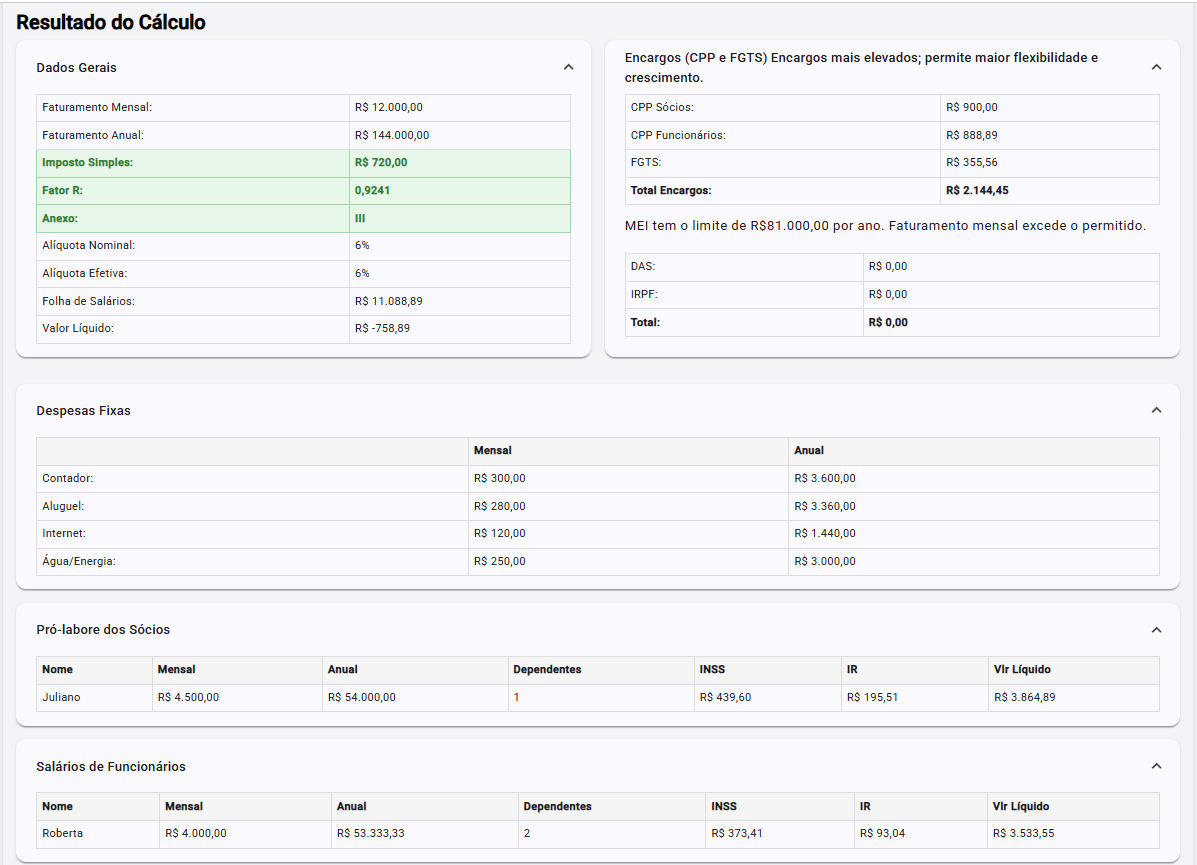
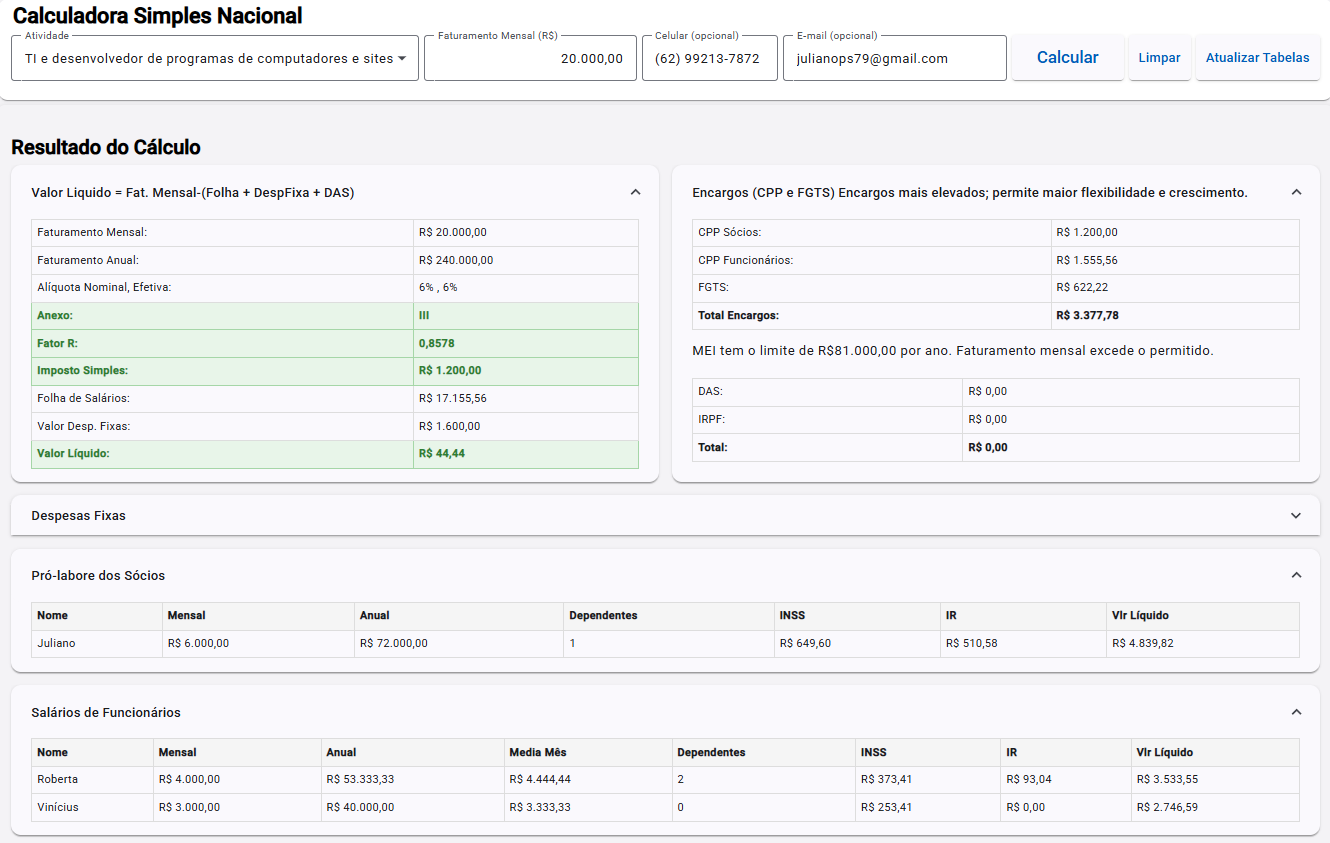
Ajustes de layout, destaque do valor líquido e melhorias visuais

diff --git a/src/app/components/resultado/resultado.component.html b/src/app/components/resultado/resultado.component.html
@@ -8,27 +8,32 @@
       <!-- Dados Gerais -->
       <mat-expansion-panel style="flex: 1; min-width: 350px;" [expanded]="resultado.faturamentoMensal > 0">
         <mat-expansion-panel-header>
-          <mat-panel-title> Dados Gerais </mat-panel-title>
+          <mat-panel-title> Valor Liquido = Fat. Mensal-(Folha + DespFixa + DAS) </mat-panel-title>
         </mat-expansion-panel-header>
 
         <table class="tabela-compacta">
           <tr><td>Faturamento Mensal:</td><td>R$ {{ resultado.faturamentoMensal | number: '1.2-2' }}</td></tr>
           <tr><td>Faturamento Anual:</td><td>R$ {{ resultado.faturamentoAnual | number: '1.2-2' }}</td></tr>
+          <tr><td>Alíquota Nominal, Efetiva:</td><td>{{ resultado.aliquotaNominal }}% , {{ resultado.aliquotaEfetiva }}%</td></tr>
           <tr [ngClass]="{ 'linha-verde': resultado.anexo === 'III', 'linha-azul': resultado.anexo === 'V' }">
-            <td>Imposto Simples:</td>
-            <td>R$ {{ resultado.das | number: '1.2-2' }}</td>
+            <td>Anexo:</td><td>{{ resultado.anexo }}</td>
           </tr>
           <tr [ngClass]="{ 'linha-verde': resultado.anexo === 'III', 'linha-azul': resultado.anexo === 'V' }">
             <td>Fator R:</td>
             <td>{{ resultado.fatorR | number: '1.4-4' }}</td>
           </tr>
           <tr [ngClass]="{ 'linha-verde': resultado.anexo === 'III', 'linha-azul': resultado.anexo === 'V' }">
-            <td>Anexo:</td><td>{{ resultado.anexo }}</td>
+            <td>Imposto Simples:</td>
+            <td>R$ {{ resultado.das | number: '1.2-2' }}</td>
           </tr>
-          <tr><td>Alíquota Nominal:</td><td>{{ resultado.aliquotaNominal }}%</td></tr>
-          <tr><td>Alíquota Efetiva:</td><td>{{ resultado.aliquotaEfetiva }}%</td></tr>
           <tr><td>Folha de Salários:</td><td>R$ {{ resultado.folhaSalarios | number: '1.2-2' }}</td></tr>
-          <tr><td>Valor Líquido:</td><td>R$ {{ resultado.valorLiquidoMensal | number: '1.2-2' }}</td></tr>
+          <tr><td>Valor Desp. Fixas:</td><td>R$ {{ resultado.vlrDespFixas | number: '1.2-2' }}</td></tr>
+          <tr [ngClass]="resultado.valorLiquidoMensal < 0 ? 'valor-negativo' : 'valor-positivo'">
+            <td>Valor Líquido:</td>
+            <td >
+              R$ {{ resultado.valorLiquidoMensal | number: '1.2-2' }}
+            </td>
+          </tr>
         </table>
       </mat-expansion-panel>
 
@@ -120,6 +125,7 @@
               <th>Nome</th>
               <th>Mensal</th>
               <th>Anual</th>
+              <th>Media Mês</th>
               <th>Dependentes</th>
               <th>INSS</th>
               <th>IR</th>
@@ -131,6 +137,7 @@
               <td>{{ func.nome }}</td>
               <td>R$ {{ func.valorSalario | number: '1.2-2' }}</td>
               <td>R$ {{ func.valorSalarioAnual | number: '1.2-2' }}</td>
+              <td>R$ {{ func.mediaMensal | number: '1.2-2' }}</td>
               <td>{{ func.numeroDependentes }}</td>
               <td>R$ {{ func.valorINSS | number: '1.2-2' }}</td>
               <td>R$ {{ func.valorIR | number: '1.2-2' }}</td>

diff --git a/src/app/pages/calculadora/calculadora.component.html b/src/app/pages/calculadora/calculadora.component.html
@@ -5,25 +5,23 @@
     </mat-card-header>
     <mat-card-content>
       <div class="input-botoes">
-        <mat-form-field appearance="outline" class="input-faturamento">
+        <!-- Atividade - mais larga -->
+        <mat-form-field appearance="outline" class="campo-atividade">
           <mat-label>Atividade</mat-label>
           <mat-select [(ngModel)]="atividadeSelecionada">
-            <mat-option *ngFor="let a of listaAtividades" [value]="a">
-              {{ a }}
-            </mat-option>
+            <mat-option *ngFor="let a of listaAtividades" [value]="a">{{ a }}</mat-option>
           </mat-select>
         </mat-form-field>
-        <mat-form-field appearance="outline" class="input-faturamento">
+
+        <!-- Faturamento - menor -->
+        <mat-form-field appearance="outline" class="campo-faturamento">
           <mat-label>Faturamento Mensal (R$)</mat-label>
-          <input
-            matInput
-            type="text"
-            currencyMask
-            [(ngModel)]="faturamentoMensal"
-          >
+          <input matInput type="text" currencyMask [(ngModel)]="faturamentoMensal" />
         </mat-form-field>
+        
         <div class="input-contato">
-          <mat-form-field appearance="outline" class="input-faturamento">
+          <!-- Celular - menor -->
+          <mat-form-field appearance="outline" class="campo-celular">
             <mat-label>Celular (opcional)</mat-label>
             <input
               matInput
@@ -31,12 +29,12 @@
               mask="(00) 00000-0000"
               [dropSpecialCharacters]="false"
               [(ngModel)]="celular"
-              #cel="ngModel"
               maxlength="15"
-            >
+            />
           </mat-form-field>
 
-          <mat-form-field appearance="outline" class="input-faturamento">
+          <!-- E‑mail - mais largo -->
+          <mat-form-field appearance="outline" class="campo-email">
             <mat-label>E‑mail (opcional)</mat-label>
             <input
               matInput
@@ -44,12 +42,13 @@
               [(ngModel)]="email"
               #em="ngModel"
               email
-            >
+            />
             <mat-error *ngIf="em.invalid && em.touched">
               Digite um e‑mail válido
             </mat-error>
           </mat-form-field>
         </div>
+
         <div class="botoes-acoes">
           <button mat-raised-button color="primary" class="btn-calcular" (click)="calcular()" [disabled]="carregando">
             Calcular

diff --git a/src/app/components/resultado/resultado.component.scss b/src/app/components/resultado/resultado.component.scss
@@ -43,3 +43,23 @@ mat-card {
   border-radius: 8px;
   box-shadow: 0 2px 8px rgba(0, 0, 0, 0.15);
 }
+
+.valor-negativo {
+  color: #d32f2f; /* vermelho Material */
+  font-weight: bold;
+  background-color: #fdece3; 
+  font-weight: 700;
+  td {
+    border-color: #90caf9; 
+  }
+}
+
+.valor-positivo {
+  background-color: #e8f5e9; /* verde bem claro */
+  color: #2e7d32;            /* verde escuro do Material */
+  font-weight: 700;
+  font-weight: bold;
+  td {
+    border-color: #a5d6a7; /* verde claro nas bordas */
+  }
+}

diff --git a/src/app/models/calculo-response.dto.ts b/src/app/models/calculo-response.dto.ts
@@ -26,6 +26,7 @@ export interface FuncionarioResponseDto {
   nome: string;
   valorSalario: number;
   valorSalarioAnual: number;
+  mediaMensal: number;
   numeroDependentes: number;
   valorINSS: number;
   valorIR: number;
@@ -51,6 +52,7 @@ export interface CalculoResponseDto {
   faturamentoMensal: number;
   faturamentoAnual: number;
   folhaSalarios: number;
+  vlrDespFixas: number;
   fatorR: number;
   anexo: string;               // "III" ou "V"
   aliquotaNominal: number;

diff --git a/src/app/pages/calculadora/calculadora.component.scss b/src/app/pages/calculadora/calculadora.component.scss
@@ -97,3 +97,29 @@ mat-expansion-panel{
   border-radius: 4px;
 }
 
+.input-botoes {
+  display: flex;
+  flex-wrap: wrap;
+  gap: 6px;
+  margin-bottom: -14px;
+}
+
+.campo-atividade {
+  flex: 2 1 300px;
+  min-width: 250px;
+}
+
+.campo-faturamento {
+  flex: 1 1 160px;
+  min-width: 140px;
+}
+
+.campo-celular {
+  flex: 1 1 160px;
+  min-width: 140px;
+}
+
+.campo-email {
+  flex: 2 1 260px;
+  min-width: 220px;
+}

diff --git a/src/app/components/funcionarios-form/funcionarios-form.component.scss b/src/app/components/funcionarios-form/funcionarios-form.component.scss
@@ -2,7 +2,7 @@
   display: flex;
   flex-wrap: wrap;
   gap: 6px;
-  margin-bottom: -18px;
+  margin-bottom: 5px;
   margin-top: -14px;
 }
 

diff --git a/src/app/components/socios-form/socios-form.component.scss b/src/app/components/socios-form/socios-form.component.scss
@@ -2,7 +2,7 @@
   display: flex;
   flex-wrap: wrap;
   gap: 6px;
-  margin-bottom: -20px;
+  margin-bottom: 5px;
   margin-top: -14px;
 }
 
